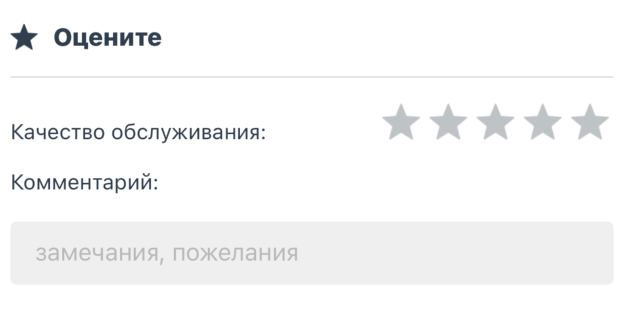
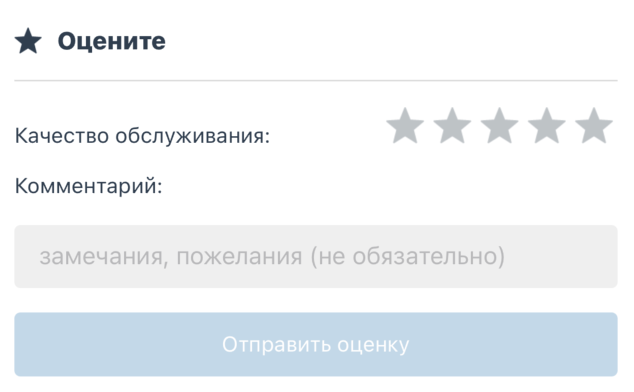
GitBook: [#224] Обновление картинки

diff --git a/api/dopolnitelnye-integracii/users/otp.md b/api/dopolnitelnye-integracii/users/otp.md
@@ -8,14 +8,14 @@
 
 «Золотой» сценарий:
 
-1. Пользователь вводит номер телефона \(или адрес email\)
+1. Пользователь вводит номер телефона (или адрес email)
 2. Мобильное приложение отправляет запрос **OTP** в сервер IMSHOP.IO
 3. Сервер IMSHOP.IO запрашивает отправку **OTP** в вашей инфраструктуре
-4. Вы отправляете SMS \(или электронное письмо\), содержащее **OTP**
+4. Вы отправляете SMS (или электронное письмо), содержащее **OTP**
 5. Пользователь вводит **OTP**
 6. Мобильное приложение отправляет **OTP** в сервер IMSHOP.IO
 7. Сервер IMSHOP.IO запрашивает подтверждение **OTP** в вашей инфраструктуре
-8. Ваша инфраструктура подтверждает введенный **OTP**, а также возвращает данные пользователя 
+8. Ваша инфраструктура подтверждает введенный **OTP**, а также возвращает данные пользователя&#x20;
 
 ## Запрос OTP
 
@@ -33,9 +33,9 @@
 }
 ```
 
-* `userIdentifier` — идентификатор пользователя \(обязательное поле\)
+* `userIdentifier` — идентификатор пользователя (обязательное поле)
 
-Идентификатор пользователя — это номер телефона, адрес email, или любой другой идентификатор \(например, логин\), как договоримся. В случае с номером телефона мы присылаем только цифры, через семёрку.
+Идентификатор пользователя — это номер телефона, адрес email, или любой другой идентификатор (например, логин), как договоримся. В случае с номером телефона мы присылаем только цифры, через семёрку.
 
 ### Аккаунт существует
 
@@ -54,10 +54,10 @@
 }
 ```
 
-* **`timeout`** — сколько секунд осталось до возможности повторно запросить **OTP** \(необязательное поле; по умолчанию 120 секунд\)
-* **`attemptsLeft`** — сколько ещё одноразовых паролей можно запросить \(необязательное поле; по умолчанию количество неограниченное\)
-* **`message`** — сообщение для пользователя \(обязательное поле\)
-* **`codeLength`** — длина **OTP** \(необязательное поле; по умолчанию 4\)
+* **`timeout`** — сколько секунд осталось до возможности повторно запросить **OTP** (необязательное поле; по умолчанию 120 секунд)
+* **`attemptsLeft`** — сколько ещё одноразовых паролей можно запросить (необязательное поле; по умолчанию количество неограниченное)
+* **`message`** — сообщение для пользователя (обязательное поле)
+* **`codeLength`** — длина **OTP** (необязательное поле; по умолчанию 4)
 
 {% hint style="info" %}
 Номера телефонов стоит частично маскировать, но так, чтобы владелец номера всё равно мог понять, куда именно ему придёт SMS.
@@ -65,7 +65,7 @@
 
 ### **Регистрация**
 
-Если данный номер телефона не загрегистрирован, вы можете **не отправлять код,** а сначала запросить дополнительные данные для регистраци.
+Если данный номер телефона не загрегистрирован, вы можете **не отправлять код, **а сначала запросить дополнительные данные для регистраци.
 
 Для этого необходимо ответить на запрос в следующем формате:
 
@@ -75,14 +75,15 @@
 }
 ```
 
-* **`dataRequired`** - список полей для запроса дополнительных данных возможные значения:
+* **`dataRequired`** - список полей для запроса дополнительных данных\
+  возможные значения:
   * **`email`** - e-mail
   * **`fullName`** - ФИО
   * **`birthday`** - день рождения
   * **`gender`** - пол
   * **`allowSms`** - запрос на разрешение отправки рекламных смс
   * **`allowEmail`** - запрос на разрешение отправки рекламных e-mail
-  * **`allowMarketing`** - запрос на разрешение отправки рекламных акций \(без уточнения канала\)
+  * **`allowMarketing`** - запрос на разрешение отправки рекламных акций (без уточнения канала)
 
 После сбора дополнительных данных, запрос на получение OTP будет повторен, но в запрос будут приложены все запрошенные данные. Пример:
 
@@ -110,7 +111,7 @@
 }
 ```
 
-* `message` — сообщение для пользователя, описывающее проблему \(обязательное поле\)
+* `message` — сообщение для пользователя, описывающее проблему (обязательное поле)
 
 {% hint style="info" %}
 Запрос нового **OTP** осуществляется посредством повторной отправки этого же запроса.
@@ -133,10 +134,10 @@
 }
 ```
 
-* `userIdentifier` — идентификатор пользователя \(обязательное поле\)
-* `otp` — пароль, введенный пользователем \(обязательное поле\)
+* `userIdentifier` — идентификатор пользователя (обязательное поле)
+* `otp` — пароль, введенный пользователем (обязательное поле)
 
-Чтобы **OTP** в SMS корректно воспринимался операционными системами iOS и Android, он должен содержать только цифры. Шесть штук. Такой формат позволит автоматически вставлять код из SMS одним нажатием. Если вы хотите другой формат — _сообщите нам заранее,_ нам необходимо будет заменить валидацию_._
+Чтобы **OTP** в SMS корректно воспринимался операционными системами iOS и Android, он должен содержать только цифры. Шесть штук. Такой формат позволит автоматически вставлять код из SMS одним нажатием. Если вы хотите другой формат — _сообщите нам заранее, _нам необходимо будет заменить валидацию_._
 
 **Ответ:**
 
@@ -178,7 +179,7 @@
 Идентификатор **`id`** пользователя необходим для других авторизованных запросов. Например, [получения истории](order-history.md).
 {% endhint %}
 
-В случае, если пользователь новый, и информации по нему никакой нет — допустимо присылать пустые поля \(все, кроме `id`\), или не присылать их вовсе. Любой ответ, не содержащий ключа **`error`**, будет расцениваться как успешный.
+В случае, если пользователь новый, и информации по нему никакой нет — допустимо присылать пустые поля (все, кроме `id`), или не присылать их вовсе. Любой ответ, не содержащий ключа **`error`**, будет расцениваться как успешный.
 
 **Ошибка: подтверждение OTP не произошло**
 
@@ -191,4 +192,3 @@
     }
 }
 ```
-

diff --git a/tools/deeplink-tool.md b/tools/deeplink-tool.md
@@ -4,17 +4,17 @@ description: инструмент создания диплинков
 
 # Создание диплинков
 
-На что делаем диплинк \(доступные страницы приложения, куда осуществляется переход\)
+На что делаем диплинк (доступные страницы приложения, куда осуществляется переход)
 
 ## На экран истории
 
-Ведёт на один из блоков контента главной вкладки. Требуется ввод ID, берётся из URL админки, открыв блок на редактирование. Например [https://console.imshop.io/\*\*\*/stories/](https://console.imshop.io/***/stories/15)[**15**](https://console.imshop.io/***/stories/15)
+Ведёт на один из блоков контента главной вкладки. Требуется ввод ID, берётся из URL админки, открыв блок на редактирование. Например [https://console.imshop.io/\*\*\*/stories/](https://console.imshop.io/\*\*\*/stories/15)[**15**](https://console.imshop.io/\*\*\*/stories/15)
 
-![](../.gitbook/assets/image%20%285%29.png)
+![](<../.gitbook/assets/image (5).png>)
 
-**Внимание:** экран истории, помимо фиксированного текстового наполнения, может вести на какой-либо раздел приложения. Для этого необходимо заполнить поле "URL / диплинк"
+**Внимание: **экран истории, помимо фиксированного текстового наполнения, может вести на какой-либо раздел приложения. Для этого необходимо заполнить поле "URL / диплинк"
 
-![](../.gitbook/assets/image%20%284%29.png)
+![](<../.gitbook/assets/image (4).png>)
 
 Кроме того, **элементы истории** также могут содержать диплинк: необходимо нажать "Добавить экран истории", в меню выбрать "Добавить картинку" и при её редактировании заполнить "URL / диплинк"
 
@@ -26,11 +26,11 @@ description: инструмент создания диплинков
 
 ### Параметры:
 
-**Заголовок экрана \(текст\):** будет отображаться в шапке
+**Заголовок экрана (текст):** будет отображаться в шапке
 
 **ID категории из API:** берётся из админки [https://console.imshop.io/account/\*\*\*/categories](https://console.imshop.io/account/lego/categories)
 
-![](https://lh6.googleusercontent.com/wCY5UhYMlmaq5MAkIJFuRAbAEkNzH5yriuk6RkFKVdd9CkDUu8-JrPChEVEG_zLkJwxej1wpQ1apmWgmxU0gyuARrFXPivL3gJ6XoAgkDFz3UDlN_Tw7Jgqmb9OZxnmABOxQayld)
+![](https://lh6.googleusercontent.com/wCY5UhYMlmaq5MAkIJFuRAbAEkNzH5yriuk6RkFKVdd9CkDUu8-JrPChEVEG\_zLkJwxej1wpQ1apmWgmxU0gyuARrFXPivL3gJ6XoAgkDFz3UDlN\_Tw7Jgqmb9OZxnmABOxQayld)
 
 ## На экран с категориями **и** товарами, согласно фиду
 
@@ -38,7 +38,7 @@ description: инструмент создания диплинков
 
 Те же, что выше
 
-## На экран с товарами \(без категорий\), согласно фиду
+## На экран с товарами (без категорий), согласно фиду
 
 ### Параметры:
 
@@ -48,11 +48,11 @@ description: инструмент создания диплинков
 
 ### Параметры:
 
-**ID товара из фида:** берётся из админки [https://console.imshop.io/account/\*\*\*/items](https://console.imshop.io/account/***/items)
+**ID товара из фида:** берётся из админки [https://console.imshop.io/account/\*\*\*/items](https://console.imshop.io/account/\*\*\*/items)
 
-![](https://lh4.googleusercontent.com/xLtB4zKI2909_BfmQng1PDbULKgUDjupkDwx8EyLNOfQs8SQYHjo2o8rceifmqXxq-ZY9ghUbs6i4gghPhYL7FC9fxOo_qtPIaWo6VZL-dOVJDJM-d1_h2LHpi34Cf8k38H6ESdS)
+![](https://lh4.googleusercontent.com/xLtB4zKI2909\_BfmQng1PDbULKgUDjupkDwx8EyLNOfQs8SQYHjo2o8rceifmqXxq-ZY9ghUbs6i4gghPhYL7FC9fxOo\_qtPIaWo6VZL-dOVJDJM-d1\_h2LHpi34Cf8k38H6ESdS)
 
-## Умный диплинк из главного экрана на выборку товаров, с учетом фильтров, сортировок и поиска \(для главной\)
+## Умный диплинк из главного экрана на выборку товаров, с учетом фильтров, сортировок и поиска (для главной)
 
 ### Параметры:
 
@@ -60,9 +60,9 @@ description: инструмент создания диплинков
 
 **Название подборки:** будет отображаться в шапке
 
-**Поисковый запрос** \(не обязательно\): строка для поиска по тексту, например, название товара
+**Поисковый запрос** (не обязательно): строка для поиска по тексту, например, название товара
 
-**Применить фильтры по параметрам из фида:** нажать \[+\], можно задать фильтрацию по нескольким параметрам товара одновременно.
+**Применить фильтры по параметрам из фида:** нажать \[+], можно задать фильтрацию по нескольким параметрам товара одновременно.
 
 Системные фильтры, их наличие не зависит от данных, переданных в фиде:
 
@@ -78,15 +78,14 @@ description: инструмент создания диплинков
 
 Примеры:
 
-• **f\_Цвет** значение **Жёлтый** \(если необходимо отобрать по нескольким значениям, требуется добавить ещё одно значение рядом\)
+• **f\_Цвет** значение **Жёлтый** (если необходимо отобрать по нескольким значениям, требуется добавить ещё одно значение рядом)
 
-![](https://lh4.googleusercontent.com/VT3p98m6jzD1k9f9BrCwyE8jO3igvA_BEN4izGl_euXEw_CQ2ocD-NzfSY8dTO-QmKCLONUN9_J7Roq4BKcgtubnKcbG-LBekQZds4V9VmNYMKk4FRaHUz84BvXkf0iUeZ-mC-hf)
+![](https://lh4.googleusercontent.com/VT3p98m6jzD1k9f9BrCwyE8jO3igvA\_BEN4izGl\_euXEw\_CQ2ocD-NzfSY8dTO-QmKCLONUN9\_J7Roq4BKcgtubnKcbG-LBekQZds4V9VmNYMKk4FRaHUz84BvXkf0iUeZ-mC-hf)
 
 • **f\_Пол** значение **Женский**
 
-## Умный диплинк из каталога на выборку товаров, с учетом фильтров, сортировок и поиска \(для Push-уведомлений\)
+## Умный диплинк из каталога на выборку товаров, с учетом фильтров, сортировок и поиска (для Push-уведомлений)
 
 ### Параметры:
 
 Те же, что выше
-

diff --git a/sync/yml/elastic.md b/sync/yml/elastic.md
@@ -14,7 +14,7 @@
 
 ### Пример
 
-В данном примере товар доступен везде, кроме Москвы и Московской области.  
+В данном примере товар доступен везде, кроме Москвы и Московской области.\
 Цена товара 400 руб во Владимирской области, и 450 рублей в остальных регионах.
 
 ```markup
@@ -79,15 +79,17 @@
 
 
 
-**Кастомные сортировки – опционально: sortDefinitions -&gt; sortDefinition** 
+**Кастомные сортировки – опционально: sortDefinitions -> sortDefinition **
 
-* **`customSort`** - дополнительная \(custom\) сортировка. необходимо передать тип из **`sortDefinitions`** \(опционально\)
-* **`type`** - тип сортировки \(идентификатор\). Далее используется в тегах **`offer`** для указания сортировки
+* **`customSort`** - дополнительная (custom) сортировка. необходимо передать тип из **`sortDefinitions`** (опционально)
+*   **`type`** - тип сортировки (идентификатор). Далее используется в тегах **`offer`** для указания сортировки
 
-  * значение - название в интерфейсе выбора сортировки в мобильном приложении
-  * **`direction`** - направление сортировки по переданной величине. **`asc`** - по возрастанию, **`desc`** - по убыванию
-  * **`main`** - использовать для сортировки товаров на главном экране. Только одна сортировка может быть **`main`** 
-  * **`hidden`** - видимость. **`true`** / **`false`** . используется для скрытия из интерфейса сортировки в мобильном приложении. Например чтобы использовать сортировку для главного экрана, но не давать выбрать эту сортировку в каталоге.
+    * значение - название в интерфейсе выбора сортировки в мобильном приложении
+    * **`direction`** - направление сортировки по переданной величине. **`asc`** - по возрастанию, **`desc`** - по убыванию
+    * **`main`** - использовать для сортировки товаров на главном экране. Только одна сортировка может быть **`main`**&#x20;
+    * **`hidden`** - видимость. **`true`** / **`false`** . используется для скрытия из интерфейса сортировки в мобильном приложении. Например чтобы использовать сортировку для главного экрана, но не давать выбрать эту сортировку в каталоге.
+
+
 
 ```markup
 <sortDefinitions>
@@ -109,7 +111,7 @@
 </offers>
 ```
 
-**Синонимы \(поиск по ключевым словам, которых нет в названии/модели оффера\):**
+**Синонимы (поиск по ключевым словам, которых нет в названии/модели оффера):**
 
 ```markup
 <offers>
@@ -122,4 +124,3 @@
   ...     
 </offers>
 ```
-

diff --git a/api/dopolnitelnye-integracii/users/ocenka-kachestva-obsluzhivaniya-v-razrabotke.md b/api/dopolnitelnye-integracii/users/ocenka-kachestva-obsluzhivaniya-v-razrabotke.md
@@ -18,8 +18,6 @@
 
 ## ![](<../../../.gitbook/assets/image (6).png>)
 
-Форма в конце расширенной истории заказа
-
 ## Запрос
 
 `APP SERVER → INFRASTRUCTURE`
